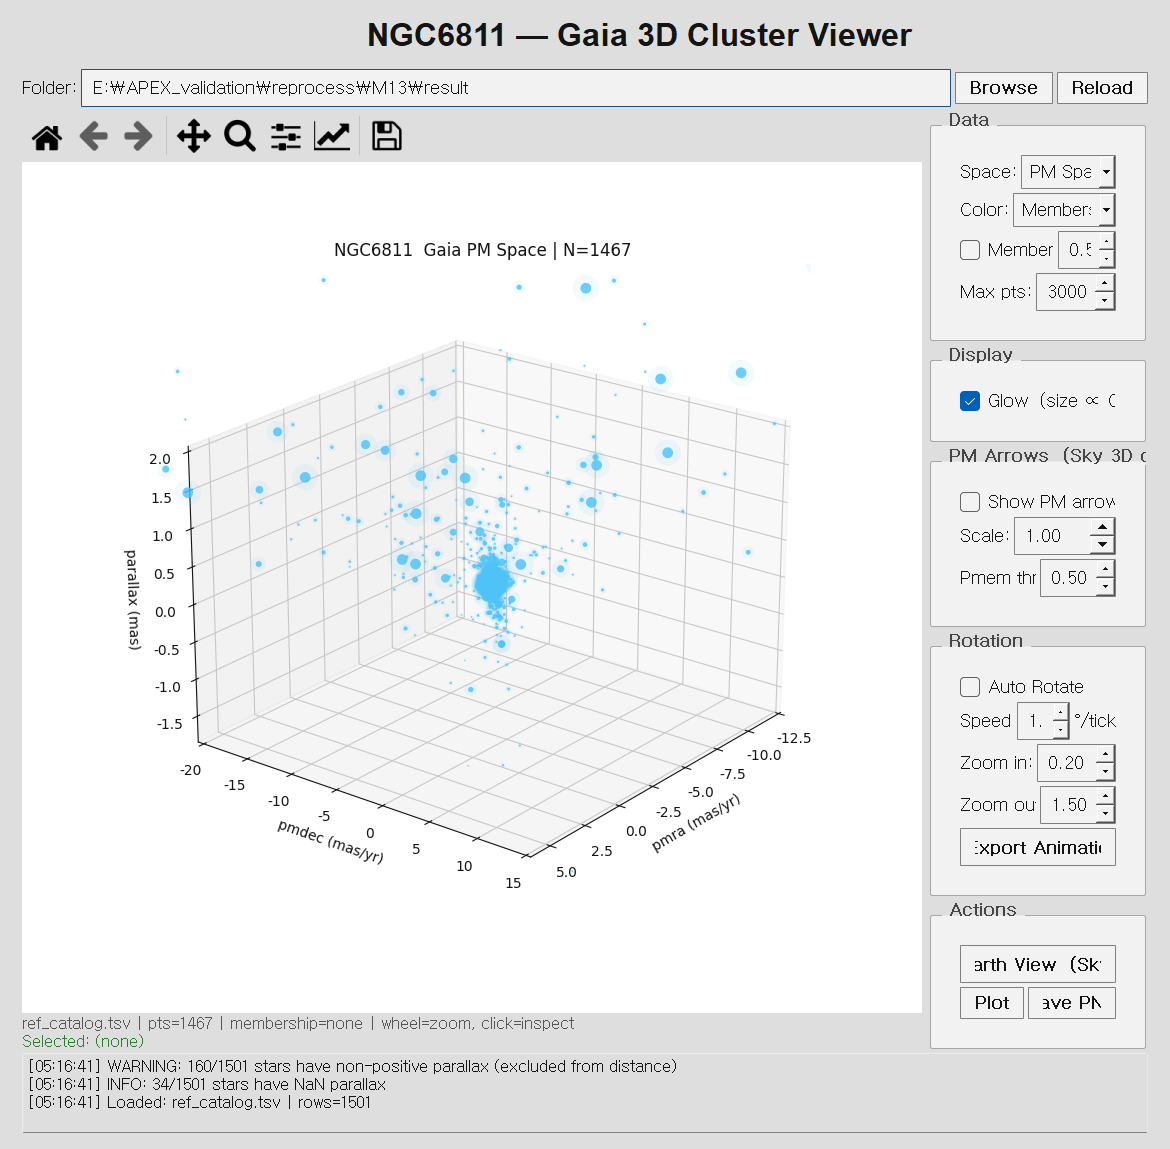
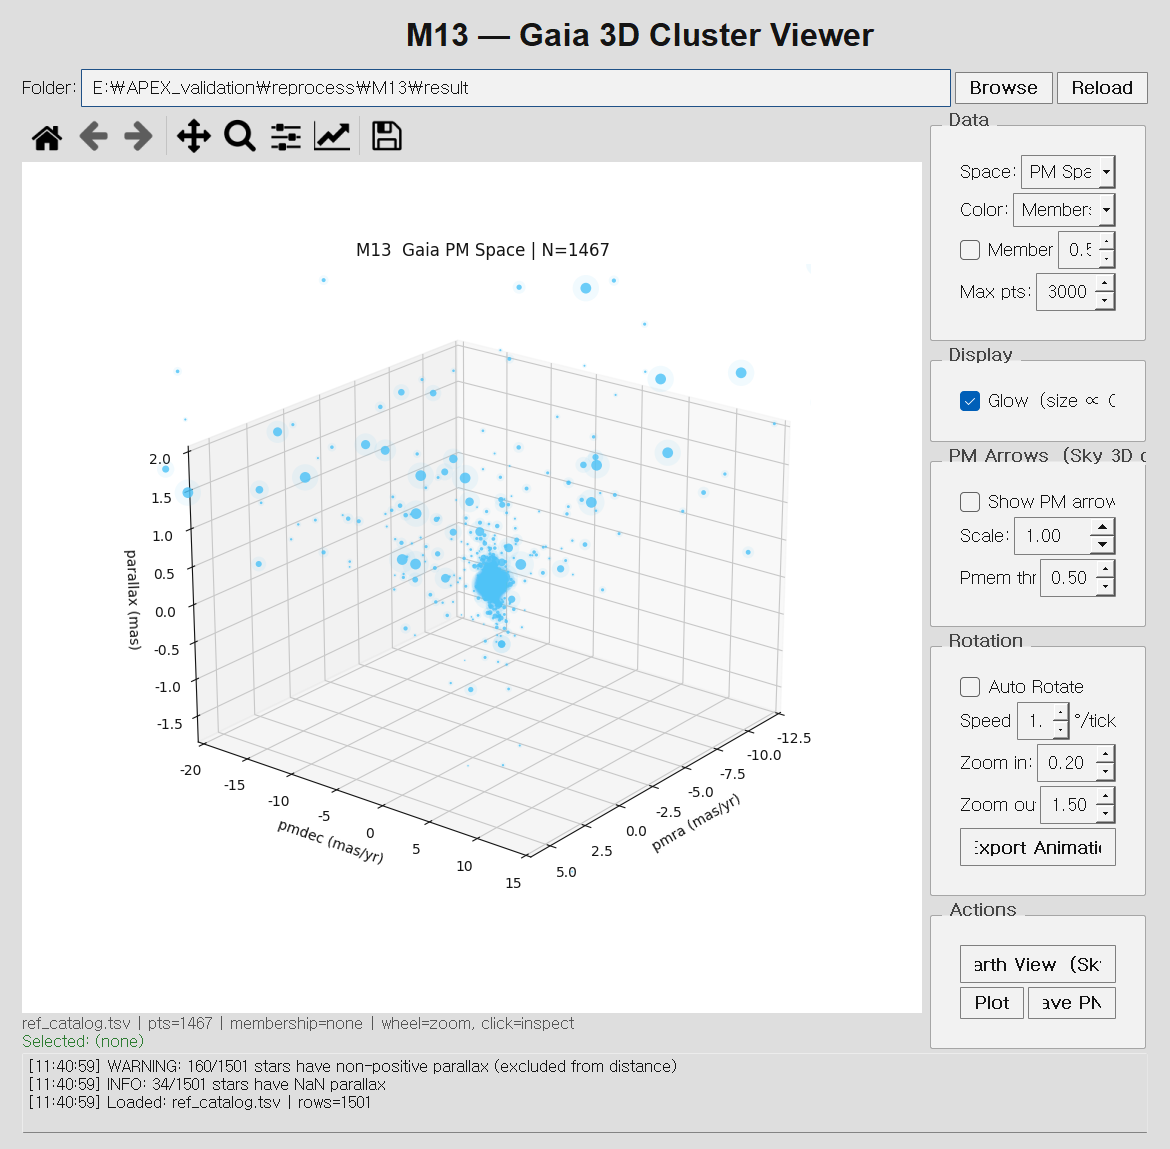
fix(lc): Step 10 을 거치면 Step 11 창이 아예 안 열리던 것
LC 도구가 요구하는 validated release 를 만들려고 Step 10(디트렌드)을 돌리고
Step 11 로 넘어갔더니 창이 NameError 로 죽었다.

    step11_period_analysis.py:682
        mode_label = _CORR_MODE_LABELS.get(pref, mode_label)
    NameError: name '_CORR_MODE_LABELS' is not defined

_CORR_MODE_LABELS 는 period_io_service.py 에 있는데 step11 이 import 하지
않는다(언더스코어라 자동으로 안 온다).

발현 조건이 중요하다 — 그 줄은 load_detrend_preference() 가 값을 돌려줄 때만
탄다. 즉 **Step 10 을 거친 뒤에만 죽는다.** 어제 YZBoo_g 는 Step 10 을 안 돌려
preference 가 없어 통과했고, 오늘 Step 10 을 돌리자 막혔다. LC 를 정석대로
(10 → 11) 진행하면 반드시 걸린다.

언더스코어 이름을 남의 모듈에서 끌어쓰는 대신 corr_mode_label(key, default)
공개 함수를 period_io_service 에 만들어 연결했다. 고친 뒤 Step 11 이 열리고
lc_detrend/lightcurve_ID153_offset.csv 를 읽어 lc_period/ 를 낸다.

함께:
- extinction_fit 의 실패 메시지에 실제 airmass 범위·폭을 붙이고, 폭이 0.3 미만
  이면 「소광계수는 airmass 기울기라 이 폭으로는 결정할 수 없다」고 알려 준다.
  기존에는 "No valid per-star extinction fits produced" 만 떠서 자료 문제인지
  설정 문제인지 알 수 없었다(M13 폭 0.0023 · YZ Boo 0.217).
- 워크스페이스 타깃 이름 정정 — M13·M3·M67 셋 다 [target] name 이 NGC6811
  이었다(좌표는 각각 정확). 그림·창 제목에 박히므로 제 이름으로 고쳤다.
  확인: cluster_structure 제목이 "M13 - Analyze Cluster Structure".

기록: Step 10 offset 디트렌드 → Step 11(all, 364점) 주기는 raw_ls -9.25% /
corr_ls -8.46% / corr_pdm +1.16% 로, 손으로 g+r+i 정규화해 낸 +0.44% 와 다른
피크를 집는다. GUI_RUN_REPORT §4.8 의 「진짜 피크와 1일 별칭의 power 차이가
0.72%」가 그대로 발현된 것 — 버그가 아니라 기저선 1.1일의 한계다.

오라클 712 passed, 0 failed.

Changed region(s): [[0.3077, 0.0, 0.7692, 0.0609], [0.2769, 0.2132, 0.5231, 0.2437], [0.0308, 0.9138, 0.0923, 0.9748]]

diff --git a/apex/gui/tools/extinction_fit.py b/apex/gui/tools/extinction_fit.py
@@ -1120,7 +1120,30 @@ class ExtinctionFitWorker(QThread):
                       f"stars={len(k_list)}, frames={int(sub_good['file'].nunique())}")
 
         if not fit_rows:
-            raise RuntimeError("No valid per-star extinction fits produced")
+            # 왜 하나도 안 나왔는지 알려준다. 대부분은 airmass 가 거의 고정이라
+            # 기울기를 잴 수 없는 경우다(소광계수 k 는 m = m0 + k·X 의 기울기).
+            # 예전에는 "No valid per-star extinction fits produced" 만 띄워서
+            # 자료를 더 모아야 하는지 설정을 고쳐야 하는지 알 수 없었다.
+            detail = ""
+            try:
+                X = pd.to_numeric(phot_df.get("airmass"), errors="coerce").dropna()
+                if len(X):
+                    span = float(X.max() - X.min())
+                    detail = (
+                        f"\n관측 airmass 는 {X.min():.4f}~{X.max():.4f} "
+                        f"(폭 {span:.4f}) 입니다."
+                    )
+                    if span < 0.3:
+                        detail += (
+                            "\n소광계수는 airmass 에 대한 기울기라, 이렇게 폭이 좁으면"
+                            " 결정할 수 없습니다. 고도차가 큰 프레임(보통 X=1~2)이"
+                            " 필요합니다."
+                        )
+                else:
+                    detail = "\nairmass 값이 하나도 없습니다 — frame_airmass.csv 를 확인하세요."
+            except Exception:
+                pass
+            raise RuntimeError("No valid per-star extinction fits produced" + detail)
 
         fit_df = pd.DataFrame(fit_rows)
         points_df = pd.DataFrame(point_rows)

diff --git a/apex/gui/workflow/lc/step11_period_analysis.py b/apex/gui/workflow/lc/step11_period_analysis.py
@@ -54,6 +54,7 @@ from apex.analysis.light_curve.period_alias_service import (
 )
 from apex.analysis.light_curve.period_io_service import (
     ALL_FILTER_KEY,
+    corr_mode_label,
     detect_corr_mode_from_df,
     load_period_lightcurve_csv,
     save_period_analysis_outputs,
@@ -679,7 +680,7 @@ class PeriodAnalysisWindow(StepWindowBase):
             mode_key, mode_label = _detect_corr_mode(lc_path.name)
             pref = load_detrend_preference(result_dir, target_id)
             if pref:
-                mode_label = _CORR_MODE_LABELS.get(pref, mode_label)
+                mode_label = corr_mode_label(pref, mode_label)
             self.source_label.setText(mode_label)
 
             # Scan filters

diff --git a/apex/analysis/light_curve/period_io_service.py b/apex/analysis/light_curve/period_io_service.py
@@ -24,6 +24,16 @@ _CORR_MODE_LABELS = {
 ALL_FILTER_KEY = "all"
 
 
+def corr_mode_label(key: str, default: str = "") -> str:
+    """보정 모드 키를 사람이 읽는 라벨로 바꾼다.
+
+    저장된 선호 모드(detrend preference)처럼 **파일명이 아니라 키**를 들고 있을
+    때 쓴다. `detect_corr_mode()` 는 파일명에서 뽑는 용도라 이 경우엔 못 쓴다.
+    """
+    text = str(key or "").strip().lower()
+    return _CORR_MODE_LABELS.get(text, default or str(key))
+
+
 def _is_all_filter_selection(flt: str) -> bool:
     value = str(flt or "").strip().lower()
     return value in {ALL_FILTER_KEY, "__all__", "all filters", "all-filters"}
